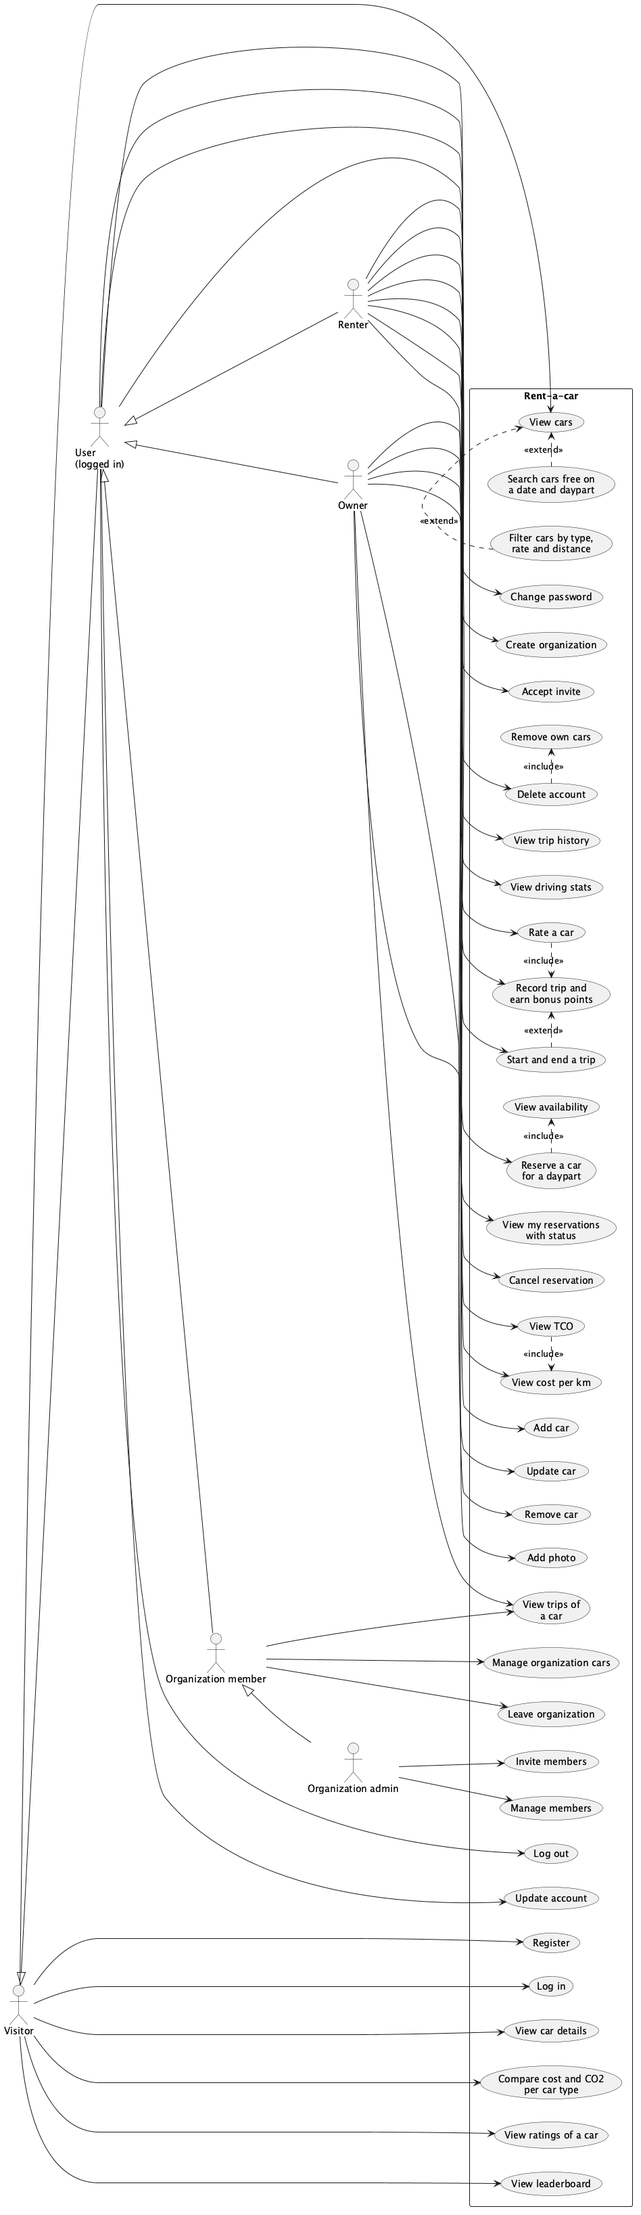
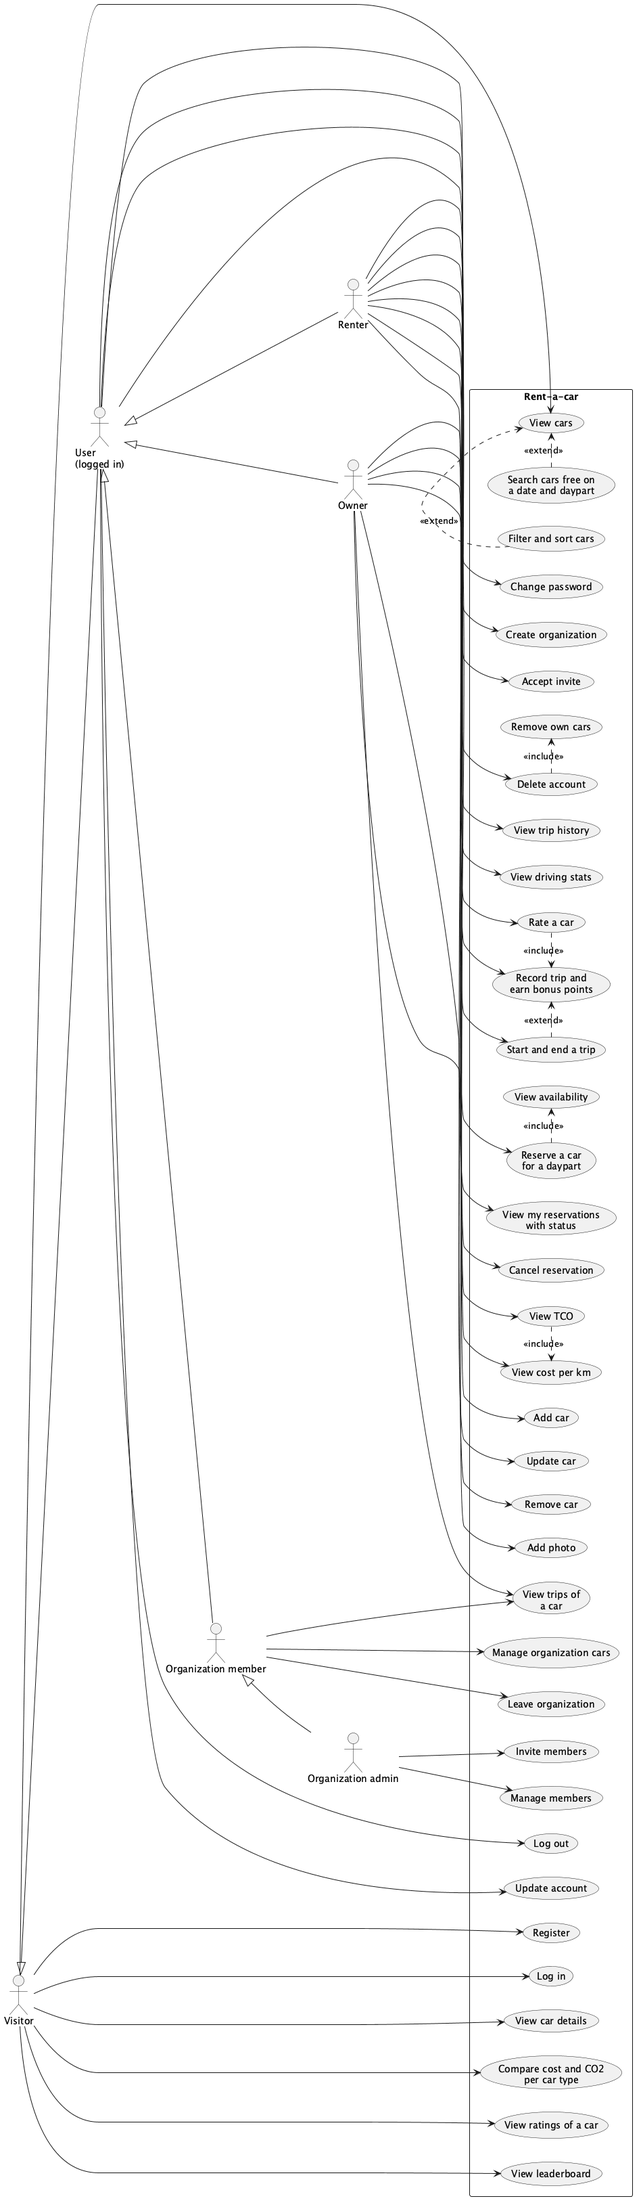
feat: sort and filter cars by more fields (#123)
* Sort cars by rate, range or cost per km and filter by body style, transmission, fuel and range

* Ask for the new car filters and the sort in the console client

* Document the car filters and sort in the README, OpenAPI and diagrams

* Calculate the range without rounding errors and test the sort by range and the location prompts

* Use the server's time zone for today in the driving stats tests

diff --git a/test/cars/CarFilterTest.kt b/test/cars/CarFilterTest.kt
@@ -6,9 +6,13 @@ import kotlin.test.*
 
 // Unit tests of filterCars itself; FilterCarsRoutesTest covers it through the route.
 class CarFilterTest {
-    private fun car(type: CarType, plate: String, rate: Double, lat: Double = 0.0, lon: Double = 0.0) = AddCarRequest(
-        type, "Test", plate, 100, rate, Location(lat, lon), 4, BodyStyle.Sedan, 2020, 100, Transmission.Manual, "Red",
-        fuelType = FuelType.Petrol.takeIf { type == CarType.ICE }, capacity = 50.0, consumption = 5.0,
+    private fun car(
+        type: CarType, plate: String, rate: Double, lat: Double = 0.0, lon: Double = 0.0,
+        bodyStyle: BodyStyle = BodyStyle.Sedan, transmission: Transmission = Transmission.Manual,
+        fuelType: FuelType = FuelType.Petrol, capacity: Double = 50.0, consumption: Double = 5.0,
+    ) = AddCarRequest(
+        type, "Test", plate, 100, rate, Location(lat, lon), 4, bodyStyle, 2020, 100, transmission, "Red",
+        fuelType = fuelType.takeIf { type == CarType.ICE }, capacity = capacity, consumption = consumption,
     ).toCar(1)
 
     private val cars = listOf(
@@ -86,5 +90,95 @@ class CarFilterTest {
         assertEquals(listOf("A"), plates("type" to "BEV", "maxRate" to "35"))
         assertEquals(emptyList(), plates("type" to "ICE", "maxRate" to "35"))
         assertNull(plates("type" to "BEV", "maxRate" to "abc"))
+    }
+
+    // Range is capacity / consumption * 100: BEV 400 km, petrol 800 km, LPG 125 km, FCEV 500 km, and a car that uses nothing has no limit.
+    private val varied = listOf(
+        car(CarType.BEV, "E", 30.0, bodyStyle = BodyStyle.SUV, transmission = Transmission.Automatic, capacity = 60.0, consumption = 15.0),
+        car(CarType.ICE, "P", 20.0, bodyStyle = BodyStyle.Hatchback, fuelType = FuelType.Petrol, capacity = 40.0, consumption = 5.0),
+        car(CarType.ICE, "L", 20.0, bodyStyle = BodyStyle.Hatchback, fuelType = FuelType.LPG, capacity = 10.0, consumption = 8.0),
+        car(CarType.FCEV, "H", 50.0, bodyStyle = BodyStyle.SUV, transmission = Transmission.Automatic, capacity = 5.0, consumption = 1.0),
+        car(CarType.BEV, "Z", 40.0, capacity = 50.0, consumption = 0.0),
+    )
+
+    private fun variedPlates(vararg query: Pair<String, String>) =
+        filterCars(varied, Parameters.build { query.forEach { (k, v) -> append(k, v) } })?.map { it.licensePlate }
+
+    @Test
+    fun RangeIsCapacityPerConsumptionAndUnlimitedWithoutConsumption() {
+        assertEquals(listOf(400.0, 800.0, 125.0, 500.0), varied.take(4).map { it.rangeKm })
+        assertEquals(Double.POSITIVE_INFINITY, varied.last().rangeKm)
+    }
+
+    @Test
+    fun RangeDoesNotLoseAKilometreToRounding() {
+        val exact = car(CarType.BEV, "X", 10.0, capacity = 57.0, consumption = 100.0)
+        assertEquals(57.0, exact.rangeKm)
+        assertEquals(listOf("X"), filterCars(listOf(exact), parametersOf("minRange", "57"))?.map { it.licensePlate })
+    }
+
+    @Test
+    fun BodyStyleAndTransmissionMustMatchExactly() {
+        assertEquals(listOf("E", "H"), variedPlates("bodyStyle" to "SUV"))
+        assertEquals(listOf("E", "H"), variedPlates("transmission" to "Automatic"))
+        listOf("suv", "", "Truck").forEach { assertNull(variedPlates("bodyStyle" to it), it) }
+        listOf("automatic", "", "CVT").forEach { assertNull(variedPlates("transmission" to it), it) }
+    }
+
+    @Test
+    fun FuelTypeOnlyMatchesCombustionCars() {
+        assertEquals(listOf("P"), variedPlates("fuelType" to "Petrol"))
+        assertEquals(listOf("L"), variedPlates("fuelType" to "LPG"))
+        assertEquals(emptyList(), variedPlates("fuelType" to "Diesel"))
+        assertNull(variedPlates("fuelType" to "petrol"))
+    }
+
+    @Test
+    fun MinRangeIncludesTheRangeItselfAndKeepsUnlimitedCars() {
+        assertEquals(listOf("E", "P", "H", "Z"), variedPlates("minRange" to "400"))
+        assertEquals(listOf("P", "Z"), variedPlates("minRange" to "500.1"))
+        assertEquals(listOf("E", "P", "L", "H", "Z"), variedPlates("minRange" to "0"))
+        listOf("-1", "abc", "", "NaN", "Infinity").forEach { assertNull(variedPlates("minRange" to it), it) }
+    }
+
+    @Test
+    fun SortsByRateAscendingAndDescendingKeepingTheFleetOrderForTies() {
+        assertEquals(listOf("P", "L", "E", "Z", "H"), variedPlates("sort" to "rate"))
+        assertEquals(listOf("H", "Z", "E", "P", "L"), variedPlates("sort" to "-rate"))
+    }
+
+    @Test
+    fun SortsByRange() {
+        assertEquals(listOf("L", "E", "H", "P", "Z"), variedPlates("sort" to "range"))
+        assertEquals(listOf("Z", "P", "H", "E", "L"), variedPlates("sort" to "-range"))
+    }
+
+    @Test
+    fun SortsByCostPerKmWithTheCheapestPerKmFirst() {
+        // per km at the standard prices: Z 0 (no consumption), E 0.0525, L 0.08, H 0.12, P 0.105
+        assertEquals(listOf("Z", "E", "L", "P", "H"), variedPlates("sort" to "costPerKm"))
+        assertEquals(listOf("H", "P", "L", "E", "Z"), variedPlates("sort" to "-costPerKm"))
+    }
+
+    @Test
+    fun AnUnknownSortFieldIsRejected() {
+        listOf("price", "", "-", "--rate", "Rate", "rate,range", "+rate").forEach { assertNull(variedPlates("sort" to it), it) }
+    }
+
+    @Test
+    fun NewFiltersAndSortCombineWithTheExistingFilters() {
+        assertEquals(listOf("E", "H"), variedPlates("transmission" to "Automatic", "sort" to "rate"))
+        assertEquals(listOf("H"), variedPlates("transmission" to "Automatic", "maxRate" to "60", "minRange" to "450"))
+        assertEquals(listOf("H", "E"), variedPlates("bodyStyle" to "SUV", "sort" to "-rate"))
+        assertNull(variedPlates("bodyStyle" to "SUV", "sort" to "nope"))
+    }
+
+    @Test
+    fun ALocationStillSortsNearestFirstAndSortIsOnlyValidated() {
+        val near = car(CarType.BEV, "N", 90.0, 0.0, 0.1)
+        val far = car(CarType.BEV, "F", 10.0, 0.0, 1.0)
+        val query = parametersOf(mapOf("lat" to listOf("0"), "lon" to listOf("0"), "sort" to listOf("rate")))
+        assertEquals(listOf("N", "F"), filterCars(listOf(far, near), query)?.map { it.licensePlate })
+        assertNull(filterCars(listOf(far, near), parametersOf(mapOf("lat" to listOf("0"), "lon" to listOf("0"), "sort" to listOf("nope")))))
     }
 }

diff --git a/src/cars/CarFilter.kt b/src/cars/CarFilter.kt
@@ -18,18 +18,50 @@ private fun distanceKm(a: Location, lat: Double, lon: Double): Double {
     return 2 * EARTH_RADIUS_KM * asin(sqrt(h))
 }
 
-// Filters by the type, maxRate, lat, lon and maxDistanceKm query parameters; null when one is invalid.
-// With a distance filter the result is nearest first.
+// Km you can drive on a full tank or battery; a car that uses nothing per 100 km has no limit.
+val Car.rangeKm: Double get() {
+    val (capacity, consumption) = when (this) {
+        is BEVCar -> batteryCapacityKwh to consumptionKwhPer100Km
+        is ICECar -> tankCapacityLitres to consumptionLitresPer100Km
+        is FCEVCar -> tankCapacityKg to consumptionKgPer100Km
+    }
+    return if (consumption == 0.0) Double.POSITIVE_INFINITY else capacity * 100 / consumption // multiply first: 57 / 100 * 100 is 56.99999999999999
+}
+
+private val sortKeys: Map<String, (Car) -> Double> = mapOf(
+    "rate" to { it.rate },
+    "range" to { it.rangeKm },
+    "costPerKm" to { it.costPerKm(EnergyPrices.STANDARD) },
+)
+
+private inline fun <reified E : Enum<E>> exact(value: String?): E? = enumValues<E>().find { it.name == value }
+
+// Filters by the type, bodyStyle, transmission, fuelType, minRange, maxRate, lat, lon and maxDistanceKm query parameters
+// and sorts by `sort` (rate, range or costPerKm, a leading - for descending); null when one is invalid.
+// With a location the result is nearest first and `sort` is only validated.
 fun filterCars(cars: List<Car>, query: Parameters): List<Car>? {
-    val type = query["type"]?.let { value -> CarType.entries.find { it.name == value } ?: return null }
+    val type = query["type"]?.let { exact<CarType>(it) ?: return null }
+    val bodyStyle = query["bodyStyle"]?.let { exact<BodyStyle>(it) ?: return null }
+    val transmission = query["transmission"]?.let { exact<Transmission>(it) ?: return null }
+    val fuelType = query["fuelType"]?.let { exact<FuelType>(it) ?: return null }
+    val minRange = query["minRange"]?.let { it.toDoubleOrNull()?.takeIf { v -> v.isFinite() && v >= 0 } ?: return null }
+    val sort = query["sort"]?.let { value -> sortKeys[value.removePrefix("-")]?.let { it to value.startsWith("-") } ?: return null }
     val maxRate = query["maxRate"]?.let { it.toDoubleOrNull()?.takeIf(Double::isFinite) ?: return null }
     val lat = query["lat"]?.let { it.toDoubleOrNull()?.takeIf { v -> v in -90.0..90.0 } ?: return null }
     val lon = query["lon"]?.let { it.toDoubleOrNull()?.takeIf { v -> v in -180.0..180.0 } ?: return null }
     val maxDistance = query["maxDistanceKm"]?.let { it.toDoubleOrNull()?.takeIf { v -> v >= 0 } ?: return null }
     if ((lat == null) != (lon == null) || (maxDistance != null && lat == null)) return null
 
-    val matching = cars.filter { (type == null || it.carType == type) && (maxRate == null || it.rate <= maxRate) }
-    if (lat == null || lon == null) return matching
+    val matching = cars.filter {
+        (type == null || it.carType == type) && (maxRate == null || it.rate <= maxRate) &&
+            (bodyStyle == null || it.bodyStyle == bodyStyle) && (transmission == null || it.transmission == transmission) &&
+            (fuelType == null || (it is ICECar && it.fuelType == fuelType)) && (minRange == null || it.rangeKm >= minRange)
+    }
+    if (lat == null || lon == null) {
+        if (sort == null) return matching
+        val (key, descending) = sort
+        return if (descending) matching.sortedByDescending(key) else matching.sortedBy(key) // stable: equal values keep the fleet order
+    }
     return matching.map { it to distanceKm(it.location, lat, lon) }
         .filter { maxDistance == null || it.second <= maxDistance }
         .sortedBy { it.second }

diff --git a/cli/src/areas/Cars.kt b/cli/src/areas/Cars.kt
@@ -5,6 +5,10 @@ import kotlinx.serialization.json.*
 
 private val carColumns = listOf("id", "type", "brand", "licensePlate", "rate", "status", "averageRating", "location.latitude", "location.longitude")
 private val daypartNames = listOf("MORNING", "AFTERNOON", "EVENING")
+private val bodyStyles = listOf("Hatchback", "SUV", "Sedan", "Stationwagon", "Cabrio", "Coupe", "MPV", "Other")
+private val transmissions = listOf("Manual", "Automatic")
+private val fuelTypes = listOf("Petrol", "Diesel", "LPG")
+private val sortFields = listOf("rate", "-rate", "range", "-range", "costPerKm", "-costPerKm")
 
 fun Console.daypart(): String = choose("Daypart", daypartNames, default = 1)
 
@@ -19,10 +23,16 @@ val carsMenu = Menu("Cars", needsLogin = false, items = listOf(
         val lat = io.optionalDouble("Your latitude, to sort by distance")
         val lon = lat?.let { io.double("Your longitude") }
         val maxDistance = lat?.let { io.optionalDouble("Furthest distance in km") }
+        val bodyStyle = io.optionalOneOf("Body style", bodyStyles)
+        val transmission = io.optionalOneOf("Transmission", transmissions)
+        val fuelType = io.optionalOneOf("Fuel of a petrol, diesel or LPG car", fuelTypes)
+        val minRange = io.optionalDouble("Shortest range in km")
+        val sort = io.optionalOneOf("Sort by (a leading - reverses)", sortFields)
         ctx.call("GET", "/cars", mapOf(
             "type" to type, "maxRate" to maxRate?.toString(), "date" to date?.toString(), "daypart" to daypart,
             "lat" to lat?.toString(), "lon" to lon?.toString(), "maxDistanceKm" to maxDistance?.toString(),
-        ), hints = mapOf(400 to "The server did not accept the filters. The type is BEV, ICE or FCEV and the date cannot be in the past."))
+            "bodyStyle" to bodyStyle, "transmission" to transmission, "fuelType" to fuelType, "minRange" to minRange?.toString(), "sort" to sort,
+        ), hints = mapOf(400 to "The server did not accept the filters. The type is BEV, ICE or FCEV, the date cannot be in the past and the shortest range cannot be negative."))
             ?.let { io.table(it.jsonArray, carColumns) }
     },
     MenuItem("Car details, photos and ratings") { ctx ->
@@ -97,12 +107,12 @@ private fun carForm(io: Console, current: JsonObject?): JsonObject {
             put("longitude", io.double("Longitude", location?.get("longitude")?.jsonPrimitive?.double ?: 4.78))
         }
         put("doors", io.int("Doors", cur("doors")?.toInt() ?: 5, 1, 9))
-        put("bodyStyle", pick("Body style", "bodyStyle", listOf("Hatchback", "SUV", "Sedan", "Stationwagon", "Cabrio", "Coupe", "MPV", "Other")))
+        put("bodyStyle", pick("Body style", "bodyStyle", bodyStyles))
         put("modelYear", io.int("Model year", cur("modelYear")?.toInt() ?: 2024, 1900, 2100))
         put("power", io.int("Power in kW", cur("power")?.toInt() ?: 100, min = 1))
-        put("transmission", pick("Transmission", "transmission", listOf("Manual", "Automatic")))
+        put("transmission", pick("Transmission", "transmission", transmissions))
         put("color", io.text("Color", cur("color")))
-        if (type == "ICE") put("fuelType", pick("Fuel", "fuelType", listOf("Petrol", "Diesel", "LPG")))
+        if (type == "ICE") put("fuelType", pick("Fuel", "fuelType", fuelTypes))
         put("capacity", io.double("Tank or battery size in $unit", curAny(capacityKeys)?.toDouble(), min = 0.0))
         put("consumption", io.double("Consumption per 100 km in $unit", curAny(consumptionKeys)?.toDouble(), min = 0.0))
         // Costs are optional: left empty they are 0 for a new car and unchanged on an update.

diff --git a/cli/test/MenuTest.kt b/cli/test/MenuTest.kt
@@ -10,13 +10,42 @@ class MenuTest {
     fun `a visitor browses the cars and sees only the public menus`() {
         val api = FakeApi("GET /cars" to cars)
 
-        // start: 3 = browse as visitor, 1 = Cars, 1 = list (four skipped filters), then back out of every menu
-        val output = runScript(api, "3", "1", "1", "", "", "", "", "0", "0", "0")
+        // start: 3 = browse as visitor, 1 = Cars, 1 = list (nine skipped filters), then back out of every menu
+        val output = runScript(api, "3", "1", "1", "", "", "", "", "", "", "", "", "", "0", "0", "0")
 
         assertEquals(listOf("GET /cars"), api.calls)
         assertTrue("Peugeot" in output && "85-GHB-2" in output)
         assertFalse("Reservations" in output, "visitors do not see menus that need a login")
         assertTrue("Goodbye!" in output)
+    }
+
+    @Test
+    fun `the car list sends the new filters and sort, matched in any case, and asks again for a wrong value`() {
+        val api = FakeApi("GET /cars" to cars)
+
+        // type, max rate, date, latitude skipped; body style 'suv' (any case), transmission 'cvt' is refused and asked again, 'automatic';
+        // fuel skipped, minimum range 400, sort '-costPerKm'
+        val output = runScript(api, "3", "1", "1", "", "", "", "", "suv", "cvt", "automatic", "", "400", "-costperkm", "0", "0", "0")
+
+        assertTrue("Please choose one of: Manual, Automatic." in output)
+        val query = api.queries.single()
+        assertEquals("SUV", query["bodyStyle"])
+        assertEquals("Automatic", query["transmission"])
+        assertNull(query["fuelType"])
+        assertEquals("400.0", query["minRange"])
+        assertEquals("-costPerKm", query["sort"])
+    }
+
+    @Test
+    fun `a location adds the longitude and distance prompts before the new filters`() {
+        val api = FakeApi("GET /cars" to cars)
+
+        // latitude 51.5, longitude 4.7, distance 10, then the five new filters skipped except the sort 'rate'
+        val output = runScript(api, "3", "1", "1", "", "", "", "51.5", "4.7", "10", "", "", "", "", "rate", "0", "0", "0")
+
+        val query = api.queries.single()
+        assertEquals(mapOf("lat" to "51.5", "lon" to "4.7", "maxDistanceKm" to "10.0", "sort" to "rate"), query.filterValues { it != null })
+        assertTrue("Peugeot" in output)
     }
 
     @Test
@@ -121,7 +150,7 @@ class MenuTest {
                 throw ServerUnreachable("Cannot reach the server at http://localhost:1")
         }
 
-        val output = runScript(api, "3", "1", "1", "", "", "", "", "0", "0", "0")
+        val output = runScript(api, "3", "1", "1", "", "", "", "", "", "", "", "", "", "0", "0", "0")
 
         assertTrue("! Cannot reach the server" in output)
     }

diff --git a/test/cars/FilterCarsRoutesTest.kt b/test/cars/FilterCarsRoutesTest.kt
@@ -84,4 +84,46 @@ class FilterCarsRoutesTest {
         checkBadRequest("?lat=51.59&lon=4.78&maxDistanceKm=far")
         checkBadRequest("?lat=95&lon=4.78")
     }
+
+    @Test
+    fun SortsByRateInBothDirections() {
+        check("?sort=rate", listOf("FAR", "NEARER", "NEAR"))
+        check("?sort=-rate", listOf("NEAR", "NEARER", "FAR"))
+    }
+
+    // The test cars all use 5 per 100 km: 0.0175 EUR per km for the BEVs at the standard prices and 0.105 for the petrol car.
+    // They all have the same range, so sorting by range is covered by CarFilterTest.
+    @Test
+    fun SortsByCostPerKmWithTheCheapestFirst() {
+        check("?sort=costPerKm", listOf("FAR", "NEARER", "NEAR"))
+        check("?sort=-costPerKm", listOf("NEAR", "FAR", "NEARER"))
+    }
+
+    @Test
+    fun FiltersOnBodyStyleTransmissionFuelAndRange() {
+        check("?bodyStyle=Sedan", listOf("FAR", "NEAR", "NEARER"))
+        check("?bodyStyle=SUV", emptyList())
+        check("?transmission=Manual", listOf("FAR", "NEAR", "NEARER"))
+        check("?transmission=Automatic", emptyList())
+        check("?fuelType=Petrol", listOf("NEAR"))
+        check("?minRange=1000", listOf("FAR", "NEAR", "NEARER")) // capacity 50 per 5 per 100 km is 1000 km
+        check("?minRange=1000.1", emptyList())
+    }
+
+    @Test
+    fun NewFiltersCombineWithTheOldOnesAndALocationStillSortsNearestFirst() {
+        check("?type=BEV&bodyStyle=Sedan&sort=-rate", listOf("NEARER", "FAR"))
+        check("?sort=-rate&lat=51.59&lon=4.78", listOf("NEARER", "NEAR", "FAR"))
+    }
+
+    @Test
+    fun InvalidSortsAndNewFiltersReturnBadRequest() {
+        checkBadRequest("?sort=price")
+        checkBadRequest("?sort=")
+        checkBadRequest("?bodyStyle=Truck")
+        checkBadRequest("?transmission=cvt")
+        checkBadRequest("?fuelType=Hydrogen")
+        checkBadRequest("?minRange=-1")
+        checkBadRequest("?minRange=far")
+    }
 }

diff --git a/cli/test/EndToEndTest.kt b/cli/test/EndToEndTest.kt
@@ -27,14 +27,14 @@ class EndToEndTest {
         try {
             val port = runBlocking { server.engine.resolvedConnectors().first().port }
 
-            // register (logs in) > Cars, List with four skipped filters, back
+            // register (logs in) > Cars, List with nine skipped filters, back
             // > Reservations, Reserve car 1 on today (default) in the afternoon, back
             // > Trips, Start (reservation 1), End (reservation 1: 100 km, 2 hard accelerations, 0 brakes), back
             // > Insights, Leaderboard with the default limit, back > Log out > Quit
             val output = runScript(
                 HttpApi("http://localhost:$port"),
                 "1", "Sam", "sam@example.com", "secret123",
-                "1", "1", "", "", "", "", "0",
+                "1", "1", "", "", "", "", "", "", "", "", "", "0",
                 "3", "1", "1", "", "2", "0",
                 "4", "1", "1", "2", "1", "100", "2", "0", "0",
                 "5", "1", "", "0",

diff --git a/cli/src/Console.kt b/cli/src/Console.kt
@@ -40,6 +40,10 @@ class Console(private val input: BufferedReader, val out: PrintStream) {
     /** A blank answer gives null, for filters and optional fields. */
     fun optionalText(label: String): String? = readLine("$label (Enter to skip):").ifEmpty { null }
 
+    /** A blank answer gives null; otherwise one of [options], typed in any case, returned as spelled in the list. */
+    fun optionalOneOf(label: String, options: List<String>): String? =
+        optional("$label (${options.joinToString(", ")})") { raw -> options.find { it.equals(raw, ignoreCase = true) }?.let { it to null } ?: (null to "Please choose one of: ${options.joinToString(", ")}.") }
+
     fun int(label: String, default: Int? = null, min: Int = Int.MIN_VALUE, max: Int = Int.MAX_VALUE): Int =
         ask(label, default?.toString()) { parseInt(it, min, max) }
 

diff --git a/test/trips/DrivingStatsRoutesTest.kt b/test/trips/DrivingStatsRoutesTest.kt
@@ -4,6 +4,7 @@ import com.example.accounts.UserRepository
 import com.example.database.TestDatabase
 import com.example.database.useTestDatabase
 import com.example.organizations.OrganizationRepository
+import com.example.reservations.ZONE
 import com.example.reservations.Daypart
 import com.example.reservations.ZONE
 import com.example.reservations.ReservationRepository

diff --git a/README.md b/README.md
@@ -99,7 +99,7 @@ docker compose up -d
 ```
 
 1. **Register** (name, email, a password of 8+ characters). You are logged in and the main menu opens.
-2. **Cars > List and search cars**: press Enter on every filter to see the fleet; try type `BEV`. **Car details** shows photos and ratings.
+2. **Cars > List and search cars**: press Enter on every filter to see the fleet; try type `BEV`, or sort by `costPerKm` to see the cheapest car per km first. **Car details** shows photos and ratings.
 3. **Costs > Quote a trip**: pick a car and a distance. **Cost per km** shows the energy price.
 4. **Reservations > Reserve a car**: pick a car, press Enter for today and pick a daypart. **My reservations** shows them with their status.
 5. **Trips > Start my trip**, then **End my trip** (distance, hard accelerations, hard brakes): you earn bonus points. **Rate the car** afterwards.
@@ -117,7 +117,7 @@ Swagger UI is only served in Ktor's development mode, which is on by default. St
 
 | Method   | Path                      | Description                    | Success | Errors                            |
 | -------- | ------------------------- | ------------------------------ | ------- | --------------------------------- |
-| `GET`    | `/cars`                   | List cars, optionally free on a date and daypart | `200` | `400`                    |
+| `GET`    | `/cars`                   | List, filter and sort cars     | `200`   | `400`                             |
 | `POST`   | `/cars`                   | Offer a car                    | `201`   | `400`, `401`, `403`, `409`        |
 | `PUT`    | `/cars/{id}`              | Update a car you may manage    | `200`   | `400`, `401`, `403`, `404`, `409` |
 | `DELETE` | `/cars/{id}`              | Delete a car you may delete    | `204`   | `400`, `401`, `403`, `404`        |
@@ -147,6 +147,8 @@ Swagger UI is only served in Ktor's development mode, which is on by default. St
 | `PUT`    | `/accounts/{id}`          | Update your own name and email | `200`   | `400`, `401`, `403`, `404`, `409` |
 | `PUT`    | `/accounts/{id}/password` | Change your own password       | `204`   | `400`, `401`, `403`, `404`        |
 | `DELETE` | `/accounts/{id}`          | Delete your own account        | `204`   | `400`, `401`, `403`, `404`        |
+
+Cars are found with the query parameters of `GET /cars`, which all combine: `type`, `maxRate`, `bodyStyle`, `transmission`, `fuelType` (only combustion cars have one), `minRange` (km on a full tank or battery) and a location (`lat`, `lon`, `maxDistanceKm`). `sort` orders by `rate`, `range` or `costPerKm` (energy cost per km at the standard prices), with a leading `-` for descending, for example `GET /cars?sort=costPerKm` lists the cheapest car per km first; equal values keep the fleet order. With a location the nearest car always comes first and `sort` is only checked. An unknown filter or sort value gives `400`.
 
 A car is rented per daypart: `MORNING` (06:00-12:00), `AFTERNOON` (12:00-18:00) or `EVENING` (18:00-24:00), once per car and date. Pass the `date` (`2026-10-12`) and `daypart` to `POST /cars/{id}/reservations`; `GET /cars/{id}/availability?date=2026-10-12` lists what is still free. `GET /cars?date=2026-10-12&daypart=MORNING` lists only the cars that are free then (not reserved, not in `Maintenance`) and combines with the other filters; `date` and `daypart` come together, and a missing, invalid or past value gives `400`. A car in `Maintenance` can't be reserved. There is no `Rented` status. A reservation has a `status`: `RESERVED` (upcoming), `COMPLETED` (its trip was recorded) or `CANCELLED`. The renter can cancel with `DELETE /reservations/{id}` until the daypart starts (its `from` time): the reservation stays in the list as `CANCELLED` and its daypart is free again for anyone (only one active reservation per car, date and daypart). After the daypart starts, with a trip or a started trip, or when it is already completed or cancelled, the answer is `409`; a trip can't be recorded or started on a cancelled reservation (`409`). `GET /reservations` lists your own reservations, newest first, with an optional `status` filter and `limit` (1-100, default 20) and `offset` paging; an invalid value gives `400`.
 
